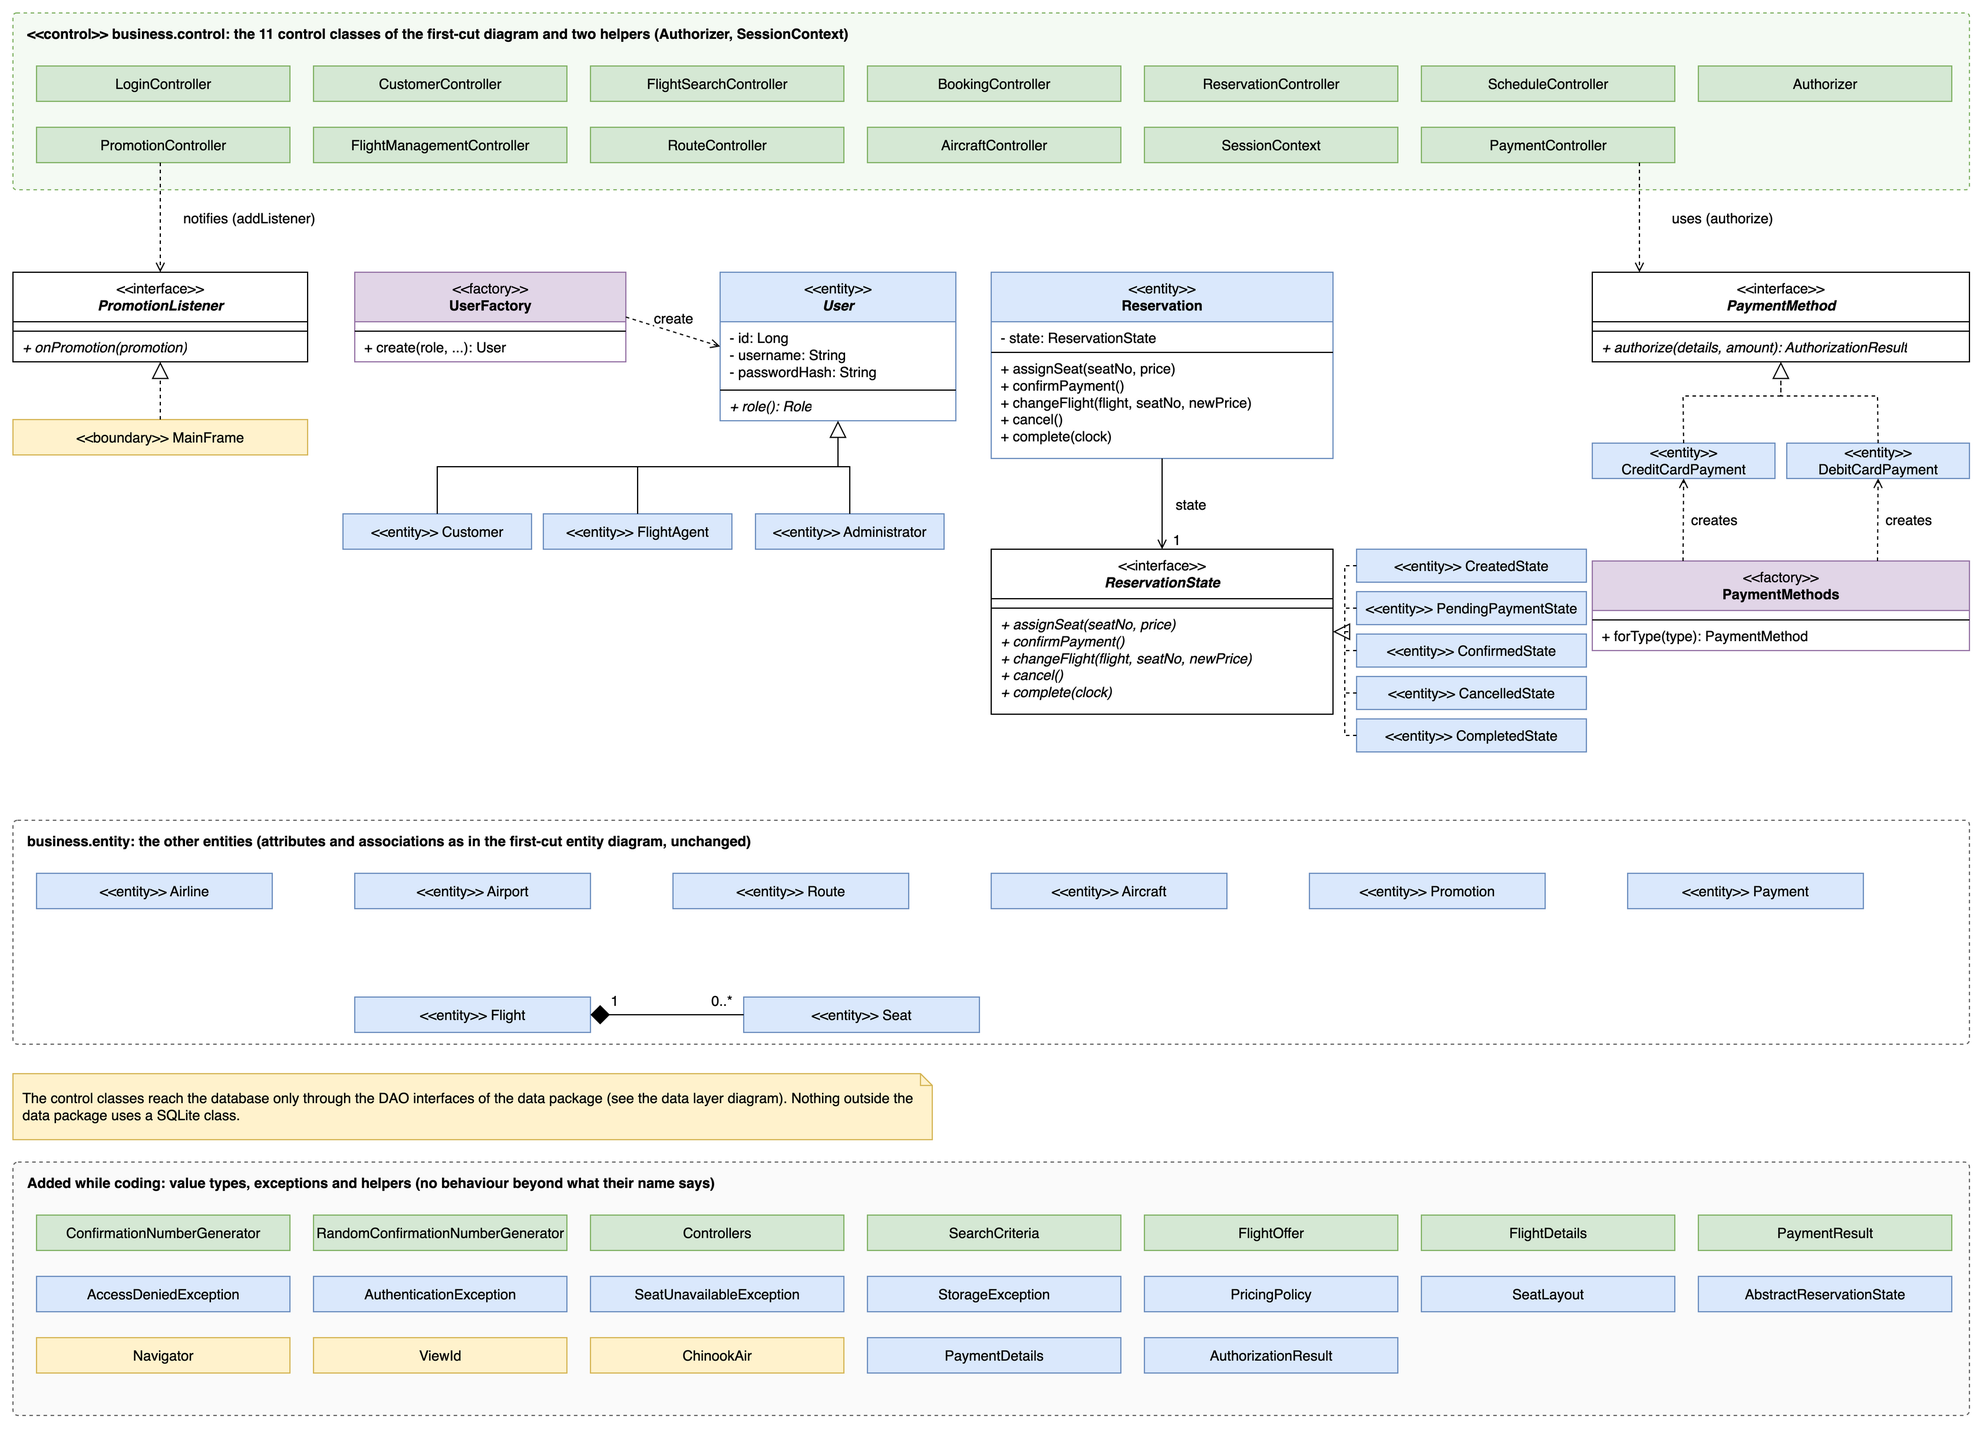
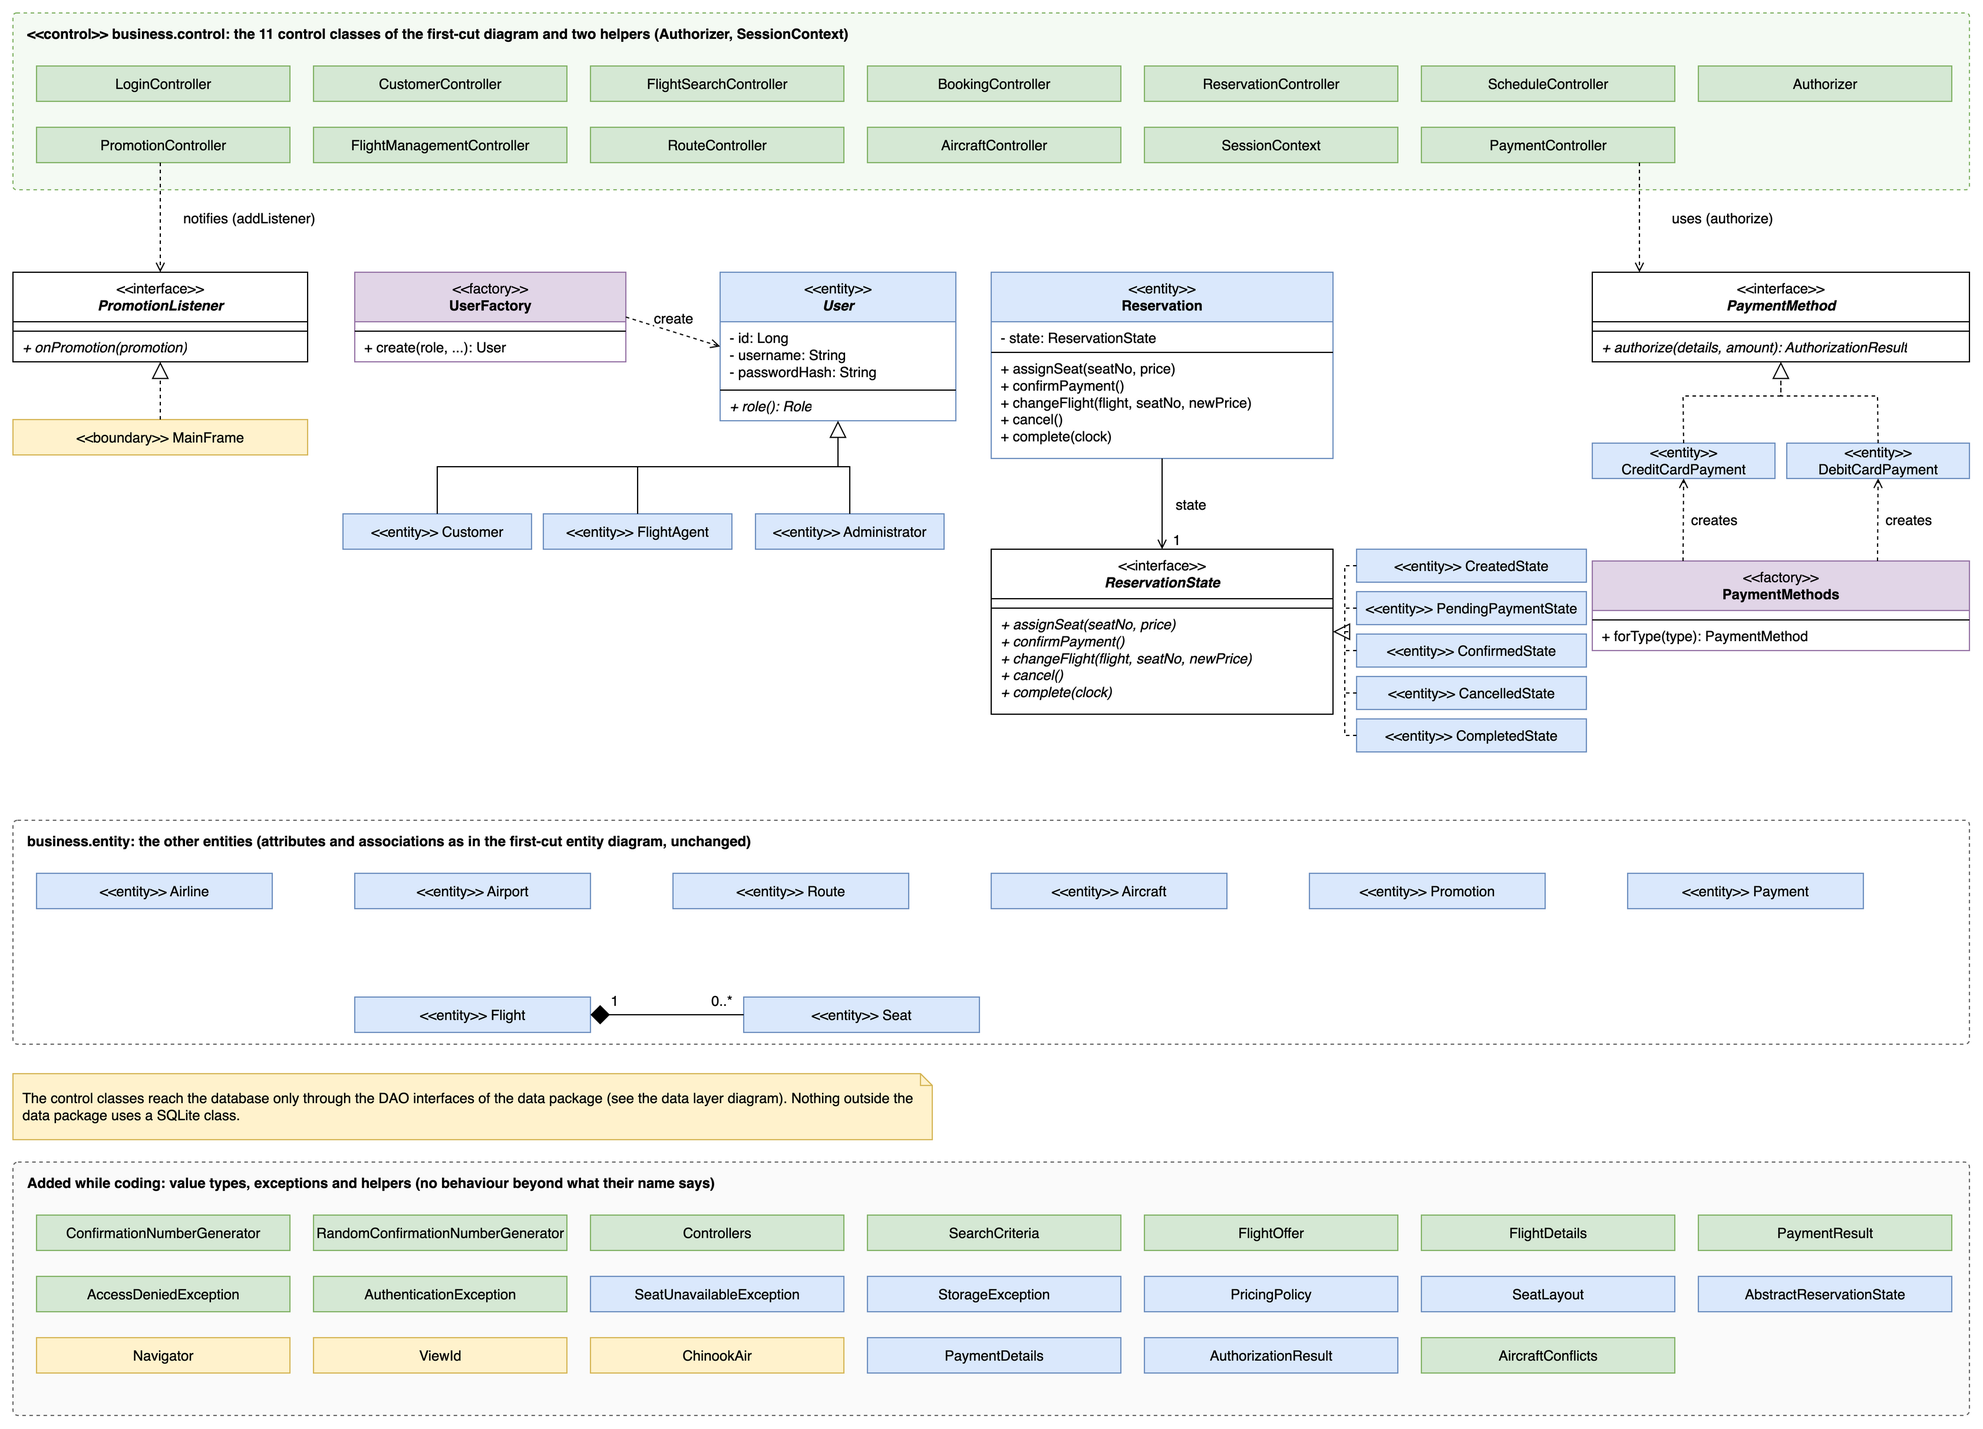
Bring the diagrams and the report in line with the program
Merge nodes before the login field and the payment step, ConfirmationWriter drawn as a data class in the payment sequence, the actor on the booking operations, AircraftConflicts and SelfTest drawn, the promotion tied to User, assigns in the candidate operations, and the claims about DaoFactory, dashboards, shared screen parts and test evidence corrected. make submission now runs the tests.

Changed region(s): [[0.0, 0.866, 0.312, 0.9278], [0.7177, 0.9278, 0.8425, 0.9588]]

diff --git a/docs/report/sections/f-class.tex b/docs/report/sections/f-class.tex
@@ -96,7 +96,8 @@ uses a SQLite class.
 
 Three classes are added to the data layer and the utility package.
 ConfirmationWriter does file access, so the refinement moves it from the
-control classes to the data package; PaymentController calls it. DatabaseSeeder
+control classes to the data package; PaymentController calls it, and so does
+ReservationController when a modified reservation keeps its price. DatabaseSeeder
 fills an empty database with demo data and hashes the demo passwords with
 \texttt{PasswordHasher} of the utility package, which the controllers also use
 for log in and registration. ChinookAir is the entry point and calls
@@ -123,7 +124,7 @@ dependencies of the data layer.
 \ctl{FlightSearchController} & FlightDao, SeatDao, AirportDao, AirlineDao\\
 \ctl{BookingController} & FlightDao, SeatDao, ReservationDao\\
 \ctl{PaymentController} & ReservationDao, PaymentDao (and ConfirmationWriter)\\
-\ctl{ReservationController} & ReservationDao, PaymentDao, FlightDao, SeatDao\\
+\ctl{ReservationController} & ReservationDao, PaymentDao, FlightDao, SeatDao (and ConfirmationWriter)\\
 \ctl{FlightManagementController} & FlightDao, SeatDao, RouteDao, AirlineDao, AircraftDao, ReservationDao\\
 \ctl{RouteController} & RouteDao, AirportDao\\
 \ctl{AircraftController} & AircraftDao\\
@@ -168,7 +169,7 @@ does not repeat the rule), \texttt{isArchived} on FlightDao and
 \ctl{business.entity} & \ctl{PaymentDetails} & the card details of a payment; only the masked number is kept\\
 \ctl{business.entity} & \ctl{AuthorizationResult} & approved or declined, with the reason; the answer of a PaymentMethod\\
 \ctl{business.entity} & \ctl{SeatUnavailableException} & thrown when another reservation holds the seat\\
-\ctl{business.entity} & \ctl{StorageException} & base of the data-layer errors, so the screens do not import the data package\\
+\ctl{business.entity} & \ctl{StorageException} & base of the database errors, so the screens do not import the data package\\
 \ctl{data} & \ctl{DataAccessException} & a database error with a message; extends StorageException\\
 \ctl{data} & \ctl{ConfirmationWriteException} & the confirmation file could not be written\\
 \ctl{data} & \ctl{DatabaseInitializer} & creates the tables from schema.sql (package-private)\\
@@ -180,7 +181,8 @@ does not repeat the rule), \texttt{isArchived} on FlightDao and
 \ctl{presentation} & \ctl{InputParser, \allowbreak ErrorMessages, \allowbreak Alert, \allowbreak ConfirmDialog} & turn typed text into values, exceptions into plain sentences, show a message, and ask the user to confirm\\
 \ctl{presentation} & \ctl{SeatGridModel} & the seat map as rows and columns, without Swing\\
 \ctl{presentation} & \ctl{ReservationTableModel, \allowbreak CustomerTableModel, \allowbreak PaymentTableModel, \allowbreak RouteTableModel, \allowbreak AircraftTableModel, \allowbreak ScheduleTableModel} & the rows of each table\\
-\ctl{presentation} & \ctl{CustomerForm, \allowbreak PromotionPanel, \allowbreak FlightResultList} & parts used by several screens: the customer form, the promotion text, and the list of flights found by a search\\
+\ctl{presentation} & \ctl{CustomerForm, \allowbreak PromotionPanel, \allowbreak FlightResultList} & parts of screens: the customer form (register and profile), the promotion text and the list of flights found by a search\\
+\ctl{root} & \ctl{SelfTest} & the check behind \texttt{-{}-selftest}: it opens a throw-away database, logs in and searches (package-private)\\
 \bottomrule
 \end{longtable}
 \endgroup

diff --git a/docs/report/sections/requirements.tex b/docs/report/sections/requirements.tex
@@ -44,8 +44,8 @@ that meets it, and the automated tests that check it.
 \textbf{Quality} & \textbf{Measurable criterion} & \textbf{How the design meets it} & \textbf{Checked by}\\
 \midrule
 \endhead
-Usability & Every screen of a role is a tab or a button of that role's start screen. A bad input shows one plain sentence that names the field and the problem, never a stack trace. Enter submits the default button and Tab follows reading order. & One dashboard per role with one button per task. Shared helpers parse input and phrase errors, so every form behaves the same. & \footnotesize \texttt{NavModelTest}\newline \texttt{KeyboardTraversalTest}\newline \texttt{ScreenDefaultsTest}\newline \texttt{InputParserTest}\newline \texttt{ErrorMessagesTest}\\
-Portability & Running the jar with the argument \texttt{-{}-selftest} prints \texttt{SELFTEST OK} and exits with 0. The jar needs only Java 17. The database is created on first run, with no installer. & Standalone Swing application, embedded SQLite, one jar that holds every dependency. & \footnotesize \texttt{SelfTestTest}\newline \texttt{MainFrameSmokeTest}\newline the build workflow runs on Linux with Java 17\\
+Usability & Every screen of a role is a tab or a button of that role's start screen. A bad input shows one plain sentence that names the field and the problem, never a stack trace. Enter submits the default button and Tab uses Swing's own layout order: no screen overrides it. & A top bar with one tab per task of the role. Shared helpers parse input and phrase errors, so every form behaves the same. & \footnotesize \texttt{NavModelTest}\newline \texttt{KeyboardTraversalTest}\newline \texttt{ScreenDefaultsTest}\newline \texttt{InputParserTest}\newline \texttt{ErrorMessagesTest}\\
+Portability & Running the jar with the argument \texttt{-{}-selftest} prints \texttt{SELFTEST OK} and exits with 0. The jar needs only Java 17. The database is created on first run, with no installer. & Standalone Swing application, embedded SQLite, one jar that holds every dependency. & \footnotesize \texttt{SelfTestTest}\newline \texttt{MainFrameSmokeTest}\newline the build workflow runs on Linux with Java 17; window tests need a display and are skipped there\\
 Maintainability & 0 Checkstyle violations on every build. The layers depend only downward, and ArchUnit tests fail the build if they do not. & Presentation, business (control and entity) and data packages. Class names match the class diagram. & \footnotesize \texttt{ArchitectureTest}\newline Checkstyle in every \texttt{mvn verify}\\
 Scalability & Replacing SQLite changes only the data package: presentation and business classes have no \texttt{java.sql} or \texttt{Sqlite*} dependency. Controllers contain no Swing code. & DAO interfaces with package-private SQLite classes behind a factory. Controllers take their DAOs through the constructor. & \footnotesize \texttt{ArchitectureTest}\newline \texttt{DaoFactoryTest}\\
 Reusability & Every entity and controller runs without Swing and without a display. The controller tests and the end-to-end test pass on a machine with no screen. Entities need no database. & Entities know nothing about the other layers. Controllers receive their DAOs and a clock instead of creating them. & \footnotesize \texttt{BookingControllerTest}\newline \texttt{PaymentControllerTest}\newline \texttt{EndToEndFlowTest}\newline \texttt{AppContextTest}\\

diff --git a/docs/report/sections/c-scenarios.tex b/docs/report/sections/c-scenarios.tex
@@ -299,17 +299,18 @@ shows (results, seat map, customers, confirmation, reasons), tells & \ctl{showEr
 searches & \ctl{search(criteria)}, \ctl{search(text)} & FlightSearchController, CustomerController & UC-10\\
 lists & \ctl{search(criteria)}, \ctl{history(customerId)}, \ctl{recordsForCustomer(customerId)} & FlightSearchController, ReservationController, PaymentController & UC-06, UC-10\\
 enters & input fields of the view, passed to \ctl{search(criteria)}, \ctl{pay(...)}, \ctl{addFlight(details)} & FlightSearchView, PaymentView, FlightManagementView & UC-06, UC-10, UC-14\\
-selects & \ctl{selectSeat(reservationId, seatNo)} for a seat; a flight or reservation is selected in the view & BookingController, views & UC-06, UC-10\\
+selects & \ctl{selectSeat(actor, reservationId, seatNo)} for a seat; a flight or reservation is selected in the view & BookingController, views & UC-06, UC-10\\
 picks & \ctl{modify(reservationId, newFlightId, newSeatNo)}, \ctl{addFlight(details)}; the choices come from \ctl{list()} & ReservationController, FlightManagementController, RouteController, AircraftController & UC-10, UC-14\\
 chooses & menu choice in the view & CustomerHome, AgentDashboard, AdminDashboard & UC-06, UC-10, UC-14\\
 opens & \ctl{history(customerId)}, \ctl{recordsForCustomer(customerId)} & ReservationController, PaymentController & UC-10\\
 corrects, saves (a profile) & \ctl{update(customer)} & CustomerController & UC-10\\
-creates & \ctl{startReservation(customerId, flightId)}, \ctl{addFlight(details)} & BookingController, FlightManagementController & UC-06, UC-14\\
+creates & \ctl{startReservation(actor, customer, flightId)}, \ctl{addFlight(details)} & BookingController, FlightManagementController & UC-06, UC-14\\
 validates & checks inside \ctl{addFlight(details)} & FlightManagementController & UC-14\\
 calculates & \ctl{priceFor(seatClass)} & Flight & UC-10\\
 simulates, retries & \ctl{pay(reservationId, type, details)} & PaymentController & UC-06, UC-10\\
 approves & \ctl{approve()} & Payment & UC-06, UC-10\\
 confirms & \ctl{confirmPayment()} & Reservation & UC-06, UC-10\\
+assigns & \ctl{assignSeat(seatNo, price)} & Reservation & UC-06\\
 generates, regenerates, saves (a confirmation) & \ctl{write(reservation, payment)} & ConfirmationWriter & UC-06, UC-10\\
 refunds, refund & \ctl{refund()} & Payment & UC-10\\
 marks & \ctl{changeFlight(flight, seatNo, newPrice)} & Reservation & UC-10\\
@@ -318,7 +319,7 @@ updates (a reservation) & \ctl{modify(reservationId, newFlightId, newSeatNo)} & 
 rejects, refuses & the checks inside \ctl{selectSeat(...)}, \ctl{modify(...)}, \ctl{cancel(...)}, \ctl{reschedule(...)} & BookingController, ReservationController, ScheduleController & UC-06, UC-10, UC-14\\
 blocks, removes, deletes, archives & \ctl{removeFlight(flightId)} & FlightManagementController & UC-14\\
 adds & \ctl{addRoute(...)}, \ctl{addAircraft(...)} & RouteController, AircraftController & UC-14\\
-cancels, abandons & \ctl{cancel(reservationId)}, \ctl{cancelPending(reservationId)} & ReservationController, BookingController & UC-06\\
+cancels, abandons & \ctl{cancel(reservationId)}, \ctl{cancelPending(actor, reservationId)} & ReservationController, BookingController & UC-06\\
 releases & \ctl{cancel()} on the Reservation, which frees the seat & Reservation & UC-06\\
 \bottomrule
 \end{longtable}

diff --git a/docs/report/sections/g-package.tex b/docs/report/sections/g-package.tex
@@ -4,7 +4,8 @@ The package diagram shows the three layers, the classes in each of them and
 which classes are public. The packages are the Java packages under
 \texttt{ca.ucalgary.chinookair}: \texttt{presentation}, \texttt{business.control},
 \texttt{business.entity}, \texttt{data} and \texttt{util}. The root package holds
-only the entry point \texttt{ChinookAir} and the composition root
+only the entry point \texttt{ChinookAir}, the \texttt{SelfTest} behind its
+\texttt{-{}-selftest} argument and the composition root
 \texttt{AppContext}. Figure~\ref{fig:package}, at the end of this section, shows them. In the diagram \texttt{+} marks a public class and
 \texttt{\textasciitilde} a package-private class, and an arrow means that the
 classes of one package use the classes of the other.
@@ -16,8 +17,9 @@ classes of one package use the classes of the other.
   Flights, Seats and Reservations that a controller returns. It never imports
   from the data package.
 \item business.control uses business.entity and the data layer.
-  Of the data layer it uses only the DAO interfaces, DaoFactory and
-  ConfirmationWriter, never a SQLite class. It never imports from
+  Of the data layer it uses only the DAO interfaces and
+  ConfirmationWriter, never a SQLite class. DaoFactory is used by
+  AppContext only. It never imports from
   presentation. The only link back to the screen is the
   PromotionListener interface, which MainFrame implements.
 \item data uses business.entity, because the DAOs load and
@@ -29,7 +31,7 @@ classes of one package use the classes of the other.
   window, the controllers and the DAOs.
 \end{itemize}
 There is no cycle between the packages. These rules are the ones that the
-architecture test of the data layer checks.
+architecture test (\texttt{ArchitectureTest}) checks.
 
 \paragraph{Visibility.} A class is public only if another package uses it.
 \begin{itemize}

diff --git a/docs/report/sections/a-introduction.tex b/docs/report/sections/a-introduction.tex
@@ -43,7 +43,7 @@ access interfaces.
 
 \begin{description}
 \item[Actor] Customer or Flight Agent.
-\item[Trigger] The user chooses to search for flights from their dashboard.
+\item[Trigger] The user chooses to search for flights from the top bar or the home screen.
 \item[Steps] The user enters an origin, a destination and a date, and may pick
   an airline. The system checks the input and lists the flights on that route
   and day that have not yet departed, each with its departure and arrival
@@ -96,9 +96,11 @@ diamonds with a guard on every outgoing flow.
 The diagram below shows the login process. When the application
 opens, the system checks whether this is the first launch of the month and
 shows the promotion once. The user then enters a username and a password. The
-system rejects empty fields and a wrong username or password with the same
-message, and the user tries again. A successful login shows the dashboard for
-the role of the user: Customer, Flight Agent or Administrator.
+system shows a message for empty fields, and the same message
+(\emph{Invalid username or password}) for a wrong username and for a wrong
+password, and the user tries again. A successful login shows the start screen
+of the role of the user: the home screen of a Customer, the customer list of a
+Flight Agent or the flight list of an Administrator.
 
 \diagram{20-activity-login}{Activity diagram: Login (UC-01)}
 

diff --git a/docs/report/sections/b-use-case-diagram.tex b/docs/report/sections/b-use-case-diagram.tex
@@ -33,7 +33,7 @@ UC-13 & Update Schedules & Administrator & FR-8 & \ctl{Schedule\allowbreak Contr
 UC-14 & Manage Flights & Administrator & FR-7, FR-11 & \ctl{Flight\allowbreak Management\allowbreak Controller} & Add, change or remove flights so customers see accurate flights.\\
 UC-15 & Manage Routes & Administrator & FR-8 & \ctl{Route\allowbreak Controller} & Keep the origin and destination pairs correct.\\
 UC-16 & Manage Aircraft & Administrator & FR-8 & \ctl{Aircraft\allowbreak Controller} & Keep the aircraft and their seat layouts correct.\\
-UC-17 & View Monthly Promotion & Customer & FR-12 & \ctl{Promotion\allowbreak Controller} & Learn about this month's promotion the first time the application opens.\\
+UC-17 & View Monthly Promotion & User (whoever opens the application) & FR-12 & \ctl{Promotion\allowbreak Controller} & Learn about this month's promotion the first time the application opens.\\
 UC-18 & Select Seat & Customer, Flight Agent (through Book Flight) & FR-14 & \ctl{Booking\allowbreak Controller} & Pick a free seat for a reservation and fix its price.\\
 \bottomrule
 \end{longtable}

diff --git a/docs/report/sections/d-sequence.tex b/docs/report/sections/d-sequence.tex
@@ -21,11 +21,11 @@ there are none and the table of flights when there are some.
 \subsection*{Book a flight (UC-06), control class BookingController}
 
 The customer chooses Book Flight and SeatSelectionView calls
-\texttt{startReservation(customerId, flightId)} on BookingController. The
+\texttt{startReservation(actor, customer, flightId)} on BookingController. The
 controller creates a Reservation, whose state is \texttt{CREATED}, and saves it
 through ReservationDao. The view then asks for \texttt{availableSeats(flightId)}
 and shows the seat map. When the customer picks a seat, the view calls
-\texttt{selectSeat(reservationId, seatNo)}. The controller loads the
+\texttt{selectSeat(actor, reservationId, seatNo)}. The controller loads the
 reservation, calls \texttt{assignSeat(seatNo, price)}, which moves it to
 \texttt{PENDING\_PAYMENT}, and updates it. If another customer took the seat
 first, ReservationDao raises \texttt{SeatUnavailableException} and the view

diff --git a/docs/report/sections/traceability.tex b/docs/report/sections/traceability.tex
@@ -59,7 +59,7 @@ Flights, as in section C.
 \textbf{Class} & \textbf{Kind} & \textbf{Scenario steps that mention it}\\
 \midrule
 \endhead
-\ctl{Customer} & entity & UC-06 (steps 3, 3b, 9), UC-10 (steps 2 to 5)\\
+\ctl{Customer} & entity & UC-06 (steps 3, 3b, 7), UC-10 (steps 2 to 5)\\
 \ctl{FlightAgent} & entity & UC-10 (steps 1 to 19)\\
 \ctl{Administrator} & entity & UC-14 (steps 1 to 11)\\
 \ctl{User} & entity & UC-06, UC-10, UC-14 (step that logs in; parent of the three roles)\\
